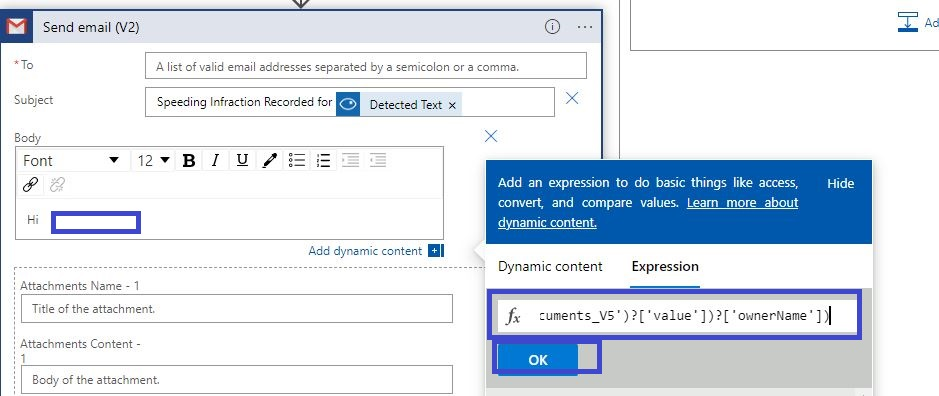
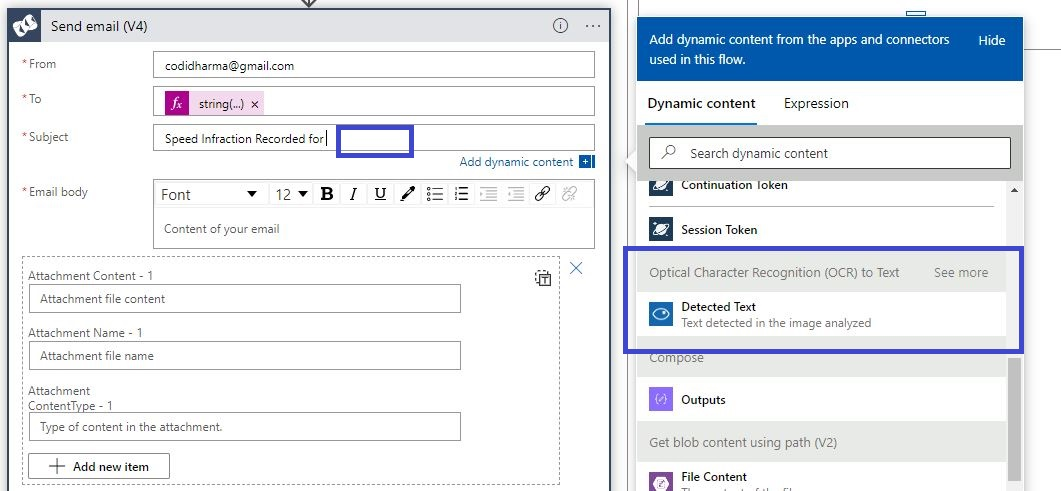
added send grid integration

diff --git a/content/posts/global-ai-2023-low-code-lab/index.md b/content/posts/global-ai-2023-low-code-lab/index.md
@@ -103,7 +103,11 @@ Before we begin using reactive programming to access uploaded blobs, we need to 
 
 ### Setting up Email Account To Send And Receive Email
 
-You can use your existing gmail account or create a free gmail account to send the ticket notifications. [Create a Gmail account](https://support.google.com/mail/answer/56256?hl=en)
+You can use send grid to send emails. You can get free Send Grid Account using free plan from [Get started for free with Send Grid](https://sendgrid.com/free/)
+
+Follow the steps provided to verify sender and set up 2FA.
+Post that create a API key from settings and save it as it will be used at a later point in time to send the email.
+
 
 ## Solution Implementation
 
@@ -123,6 +127,10 @@ We will use the Azure Cosmos DB to store the fictional vehicle registration data
 ![Create Azure Cosmos DB](cosmosdb/create4.JPG)
 6. Once done you will get the notification
 ![Creation Completed](cosmosdb/create5.JPG)
+
+7. Navigate to the Cosmos DB and select Keys and make a not of the name of the cosmos DB and primary key. This will be required later.
+
+![Select Key](cosmosdb/KeysCosmosDB.JPG)
 
 ### Creating Azure Cosmos DB Collections
 
@@ -469,32 +477,36 @@ Configure them as shown below.
 Save the logic app once done
 
 
-36. Lets us now code the final logic to send the email notification. In the true path of the condition created in step 28, click on `Add an action`. In the search box, search for `Gmail` and select `Send email V2`
-![Search Gmail](la/selectGmail.JPG)
-![Select Send Email V2](la/selectGmail2.JPG)
+36. Lets us now code the final logic to send the email notification. In the true path of the condition created in step 28, click on `Add an action`. In the search box, search for `Send Grid` and select `Send email V4`
+![Search Send Grid](la/selectSendGrid1.JPG)
+![Select Send Email V2](la/selectSendGrid2.JPG)
 
-37. You will now be presented to configure the Gmail connection by Signining in. Configure the connection as shown below and click on SignIn and follow the sign in process as prompted
+37. You will now be presented to configure the SendGrid connection by providing connection name and send grid key. Configure the connection as shown below and click on Create
 
-![Configure Gmai connection](la/configureGmailConn.JPG)
+![Configure Send Grid connection](la/ConfigureSGConn.JPG)
 
-38. Now we configure the action. By default you will only see option to configure `To` email address only. We will need other parameters like Subject, Body, Attachments etc to send a proper mail. To get these, click on the `Add new parameter` dropdown and select as shown below and then click outside the dropdown to get these parameters
+38. Now we configure the action. By default you will only see option to configure `To` email address only. We will need other parameters like Attachments etc to send a proper mail. To get these, click on the `Add new parameter` dropdown and select as shown below and then click outside the dropdown to get these parameters
 
 ![Select Extra Parameters](la/sendEmailAction1.JPG)
 
 ![Parameters Selected](la/sendEmailAction2.JPG)
 
-39. To get the `To` email address, we have to get the email address from the output of the `Query Documents V5`. Since we know for sure that we will get to sending email when only one registration is found, we will use following formula, to extract the email address
+39. You will need to set up the email id of the sender which you registered as part of the pre requisites.
+
+![Set From Email Address](la/sendEmailAction3.JPG)
+
+To get the `To` email address, we have to get the email address from the output of the `Query Documents V5`. Since we know for sure that we will get to sending email when only one registration is found, we will use following formula, to extract the email address
 
 ```
 string(first(body('Query_documents_V5')?['value'])?['contactEmail'])
 ```
 configure the `To` field as shown below
 
-![Configure To Email Address](la/sendEmailAction3.JPG)
+![Configure To Email Address](la/sendEmailAction4.JPG)
 
 To configure the Subject, follow the step below
 
-![Configure Subject](la/sendEmailAction4.JPG)
+![Configure Subject](la/sendEmailAction5.JPG)
 
 To Set Body of the email, follow below steps
 
@@ -503,7 +515,7 @@ To get the addressee name, we use the formula
 ```
 string(first(body('Query_documents_V5')?['value'])?['ownerName'])
 ```
-![Configure Addressee Name](la/sendEmailAction5.JPG)
+![Configure Addressee Name](la/sendEmailAction6.JPG)
 
 We will now configure following text
 
@@ -515,16 +527,47 @@ To get the registration numnber we will use following formula
 body('Optical_Character_Recognition_(OCR)_to_Text')?['text']
 ```
 
-![Configure Registration Number](la/sendEmailAction6.JPG)
+![Configure Registration Number](la/sendEmailAction7.JPG)
 
 To get the ticket number, we will use the output of the compose action as used in step 35
 
-![Configure Ticket Number](la/sendEmailAction7.JPG)
+![Configure Ticket Number](la/sendEmailAction8.JPG)
 
 
 The configured body should look like follows
 
-![Configured Body](la/sendEmailAction8.JPG)
+![Configured Body](la/sendEmailAction9.JPG)
+
+Now lets set the attachment, the atachment is nothing but the blob that was uploaded to the `uploads` folder which triggered the workflow.
+
+Set the name of the name of the blob that was uploaded. We will use following formula to read the blob name
+```
+substring(variables('varBlobPath'),add(lastIndexOf(variables('varBlobPath'), '/'), 1))
+```
+
+![Configure Attachment Name](la/sendEmailAction10.JPG)
+
+To set the contents of the attachment we will use following formula
+
+```
+base64ToBinary(body('Get_blob_content_using_path_(V2)')?['$content'])
+```
+
+![Configure Attachment Content](la/sendEmailAction11.JPG)
+
+To set the content type of the attachment, we will use following formula
+
+```
+body('Get_blob_content_using_path_(V2)')?['$content-type']
+```
+![Configure Attachment Content Type](la/sendEmailAction12.JPG)
+
+Save the logic app
+
+
+
+
+
 
 
 
